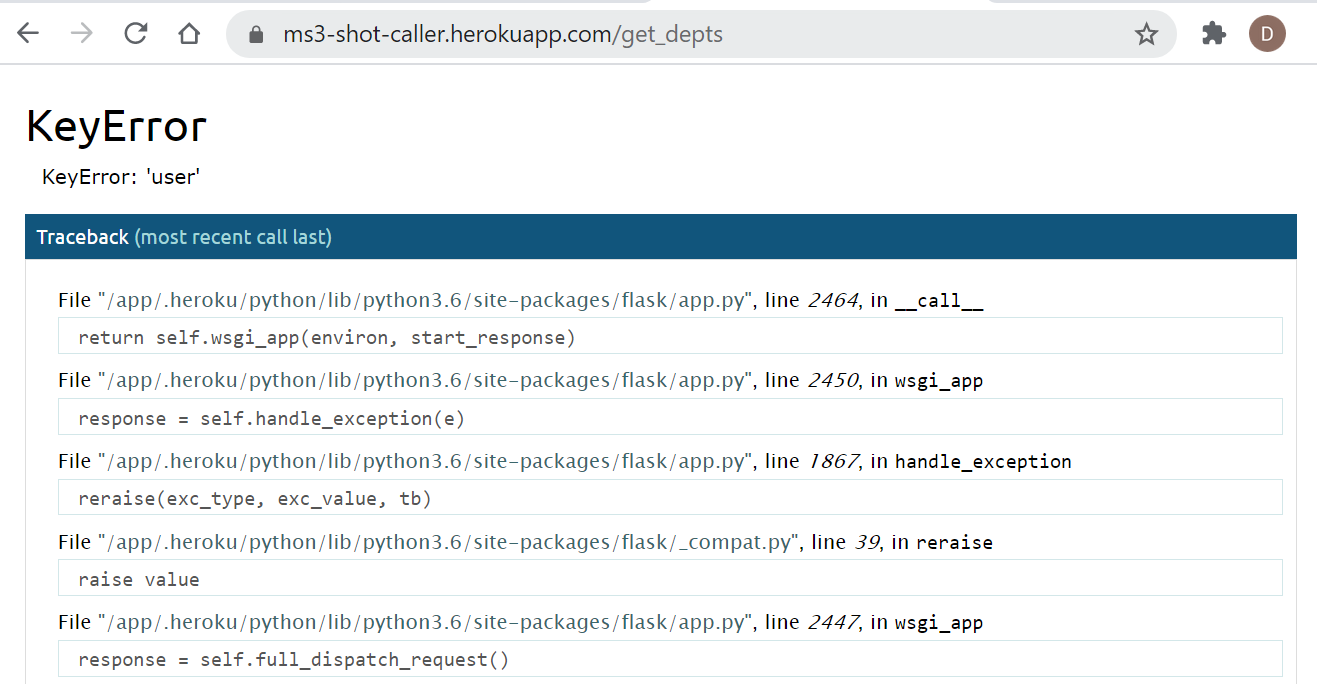
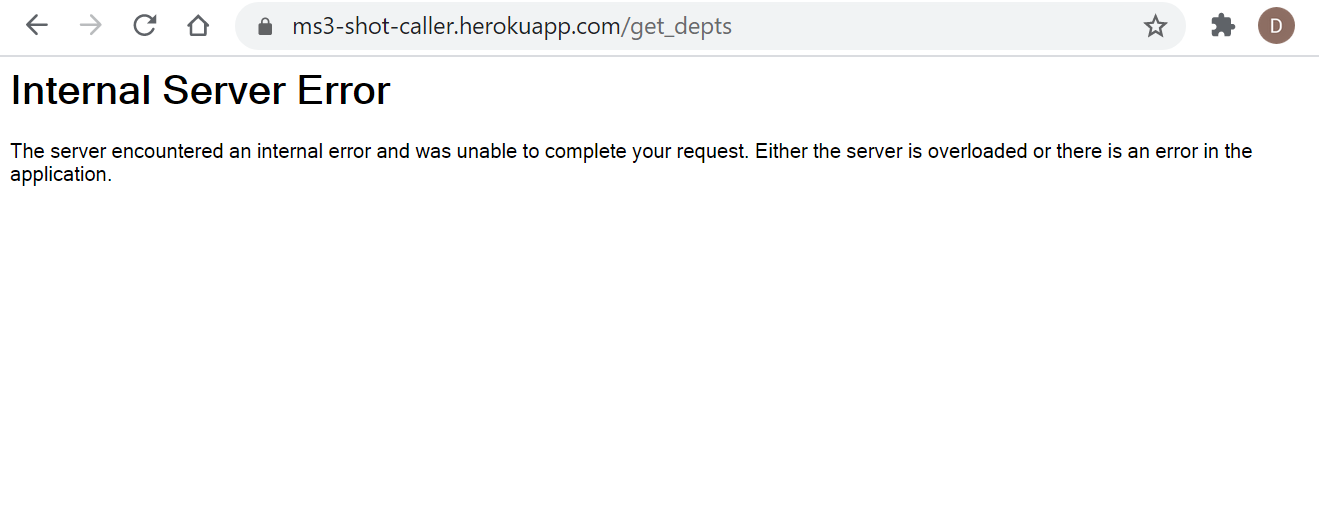
Test

diff --git a/templates/one.html b/templates/one.html
@@ -1,0 +1,16 @@
+<!DOCTYPE html>
+<html lang="en">
+<head>
+    <meta charset="UTF-8">
+    <meta name="viewport" content="width=device-width, initial-scale=1.0">
+    <title>Shot Caller</title>
+</head>
+<body style="background-color: #353839;">
+<p>one</p>
+    
+</body>
+</html>
+
+            
+
+

diff --git a/app.py b/app.py
@@ -5,7 +5,6 @@ from flask import (
     redirect, request, session, url_for)
 from flask_pymongo import PyMongo
 from bson.objectid import ObjectId
-import werkzeug
 from werkzeug.security import generate_password_hash, check_password_hash
 if os.path.exists("env.py"):
     import env
@@ -25,12 +24,6 @@ def page_not_found(e):
     if session["user"]:
         # note that we set the 404 status explicitly
         return render_template('404.html'), 404
-
-
-@app.errorhandler(500)
-def server(e):
-    if session["user"]:
-        return render_template('404.html'), 500
 
 
 @app.route("/")
@@ -106,20 +99,12 @@ def user_home(username):
             "user_home.html", username=username,
             script=script, shotlist=shotlist, depts=depts)
 
-    else:
-        flash("Entry Incorrect")
-        return redirect(url_for("login"))
-
 
 @app.route("/get_depts")
 def get_depts():
     if session["user"]:
         depts = mongo.db.depts.find()
         return render_template("depts.html", depts=depts)
-
-    else:
-        flash("Entry Incorrect")
-        return redirect(url_for("login"))
 
 
 @app.route("/get_pro")
@@ -151,16 +136,11 @@ def get_dep(dep):
         return render_template(
             "dep.html", dep=dep, depart=depart, date=today, day="TODAY")
 
-    else:
-        flash("Entry Incorrect")
-        return redirect(url_for("login"))
-
 
 @app.route("/get_poster/<dep>", methods=["GET", "POST"])
 def get_poster(dep):
     if session["user"]:
         dep = dep
-        depart = list(mongo.db[dep].find().sort({_id:1}).limit(1))
         if request.method == "POST":
             poster = request.form.get("poster").lower()
             depart = list(mongo.db[dep].find(
@@ -169,10 +149,7 @@ def get_poster(dep):
             return render_template(
                 "dep-poster.html", dep=dep, depart=depart, day=poster)
         return render_template(
-            "dep-poster.html", dep=dep, depart=depart, day="John Defoe")
-    else:
-        flash("Entry Incorrect")
-        return redirect(url_for("login"))
+            "dep-poster.html", dep=dep)
 
 
 @app.route("/get_all/<dep>", methods=["GET", "POST"])
@@ -183,9 +160,6 @@ def get_all(dep):
 
         return render_template(
             "dep.html", dep=dep, depart=depart, day="All Messages")
-    else:
-        flash("Entry Incorrect")
-        return redirect(url_for("login"))
 
 
 @app.route("/find_all/<dep>", methods=["GET", "POST"])
@@ -197,20 +171,12 @@ def find_all(dep):
         return render_template(
             "dep-poster.html", dep=dep, depart=depart, day="All Messages")
 
-    else:
-        flash("Entry Incorrect")
-        return redirect(url_for("login"))
-
 
 @app.route("/all_images/", methods=["GET", "POST"])
 def all_images():
     if session["user"]:
         images = list(mongo.db.images.find())
         return render_template("images.html", images=images)
-
-    else:
-        flash("Entry Incorrect")
-        return redirect(url_for("login"))
 
 
 @app.route("/get_image/", methods=["GET", "POST"])
@@ -223,10 +189,6 @@ def get_image():
 
         images = list(mongo.db.images.find({"image_name": "windowlight"}))
         return render_template("images.html", images=images)
-
-    else:
-        flash("Entry Incorrect")
-        return redirect(url_for("login"))
 
 
 @app.route("/logout")
@@ -272,10 +234,6 @@ def add_message():
         depts = mongo.db.depts.find().sort("dept_name", 1)
         return render_template("add_message.html", depts=depts)
 
-    else:
-        flash("Entry Incorrect")
-        return redirect(url_for("login"))
-
 
 @app.route(
     "/edit_message/<message_id>/<depart>/<user>", methods=["GET", "POST"])
@@ -314,10 +272,6 @@ def edit_message(message_id, depart, user):
         return render_template(
             "edit_message.html", message=message, depts=depts)
 
-    else:
-        flash("Entry Incorrect")
-        return redirect(url_for("login"))
-
 
 @app.route("/edit_image/<image_id>", methods=["GET", "POST"])
 def edit_image(image_id):
@@ -335,10 +289,6 @@ def edit_image(image_id):
         image = mongo.db.images.find_one({"_id": ObjectId(image_id)})
         return render_template("edit_image.html", image=image)
 
-    else:
-        flash("Entry Incorrect")
-        return redirect(url_for("login"))
-
 
 @app.route("/delete_message/<message_id>/<depart>/<user>")
 def delete_message(message_id, depart, user):
@@ -346,10 +296,6 @@ def delete_message(message_id, depart, user):
         mongo.db[depart].remove({"_id": ObjectId(message_id)})
         flash("Message Deleted")
         return redirect(url_for("get_dep", dep=depart))
-
-    else:
-        flash("Entry Incorrect")
-        return redirect(url_for("login"))
 
 
 @app.route("/add_script/<script_id>", methods=["GET", "POST"])
@@ -367,10 +313,6 @@ def add_script(script_id):
 
         return render_template("add_script.html", script=script)
 
-    else:
-        flash("Entry Incorrect")
-        return redirect(url_for("login"))
-
 
 @app.route("/add_shot", methods=["GET", "POST"])
 def add_shot():
@@ -385,10 +327,6 @@ def add_shot():
             return redirect(url_for("user_home", username=session["user"]))
 
         return render_template("add_shotlist.html")
-
-    else:
-        flash("Entry Incorrect")
-        return redirect(url_for("login"))
 
 
 @app.route("/add_image", methods=["GET", "POST"])
@@ -406,10 +344,6 @@ def add_image():
 
         return render_template("add_image.html")
 
-    else:
-        flash("Entry Incorrect")
-        return redirect(url_for("login"))
-
 
 @app.route("/remove_user", methods=["GET", "POST"])
 def remove_user():
@@ -422,10 +356,6 @@ def remove_user():
 
         return render_template("remove_user.html")
 
-    else:
-        flash("Entry Incorrect")
-        return redirect(url_for("login"))
-
 
 @app.route("/delete_image/<image_id>")
 def delete_image(image_id):
@@ -434,12 +364,8 @@ def delete_image(image_id):
         flash("Image Removed")
         return redirect(url_for("get_image"))
 
-    else:
-        flash("Entry Incorrect")
-        return redirect(url_for("login"))
-
 
 if __name__ == "__main__":
     app.run(host=os.environ.get("IP"),
             port=int(os.environ.get("PORT")),
-            debug=False)
+            debug=True)

diff --git a/README.md b/README.md
@@ -822,37 +822,25 @@ W3C Markup Validator, W3C CSS Validator. PEP8 and JSHint were used to validate e
 ### Brute-Forcing Attacks
 
 - If a user tries a brute-force entry using a known user's username with the Base Page URL
-  they will get a KeyError message.
+  they will get an Internal Server Error message.
 
 <h2 align="center">
-<img src="documentation/readme-images/brut-c.png" width="50%">
+<img src="documentation/readme-images/brut-user.png" width="50%">
 </h2>
 
-- If a user tries a brute-force entry using a known view, e.g. get_depts,
-  they will get a KeyError message.
-
+- If a user tries a brute-force entry using a known view, e.g. get_depts, 
+  or a view that takes an argument without the argument, e.g. get_dep,
+  or a view that takes an argument with a correct argument, e.g. get_dep/camera
+  they will get an Internal Server Error message.
+  
 <h2 align="center">
 <img src="documentation/readme-images/brut-get.png" width="50%">
 </h2>
 
-- Both of these KeyErrors highlight the "if sesson user" logic.
-
+- If a user tries a brute-force entry using any other characters after the address
+  they will get an Internal Server Error message.
 <h2 align="center">
-<img src="documentation/readme-images/brut-u.png" width="50%">
-</h2>
-
-- If a user attempts to use a view that takes an argument without the argument
-  they get a standard 404 error message as that does not exist.
-
-<h2 align="center">
-<img src="documentation/readme-images/brut-f.png" width="50%">
-</h2> 
-
-- If a user attempts to use a view that takes an argument with a correct argument
-  they will get a KeyError message.
-
-<h2 align="center">
-<img src="documentation/readme-images/brut-fa.png" width="50%">
+<img src="documentation/readme-images/brut-xxx.png" width="50%">
 </h2>
 
 ### 404 Error Handling
